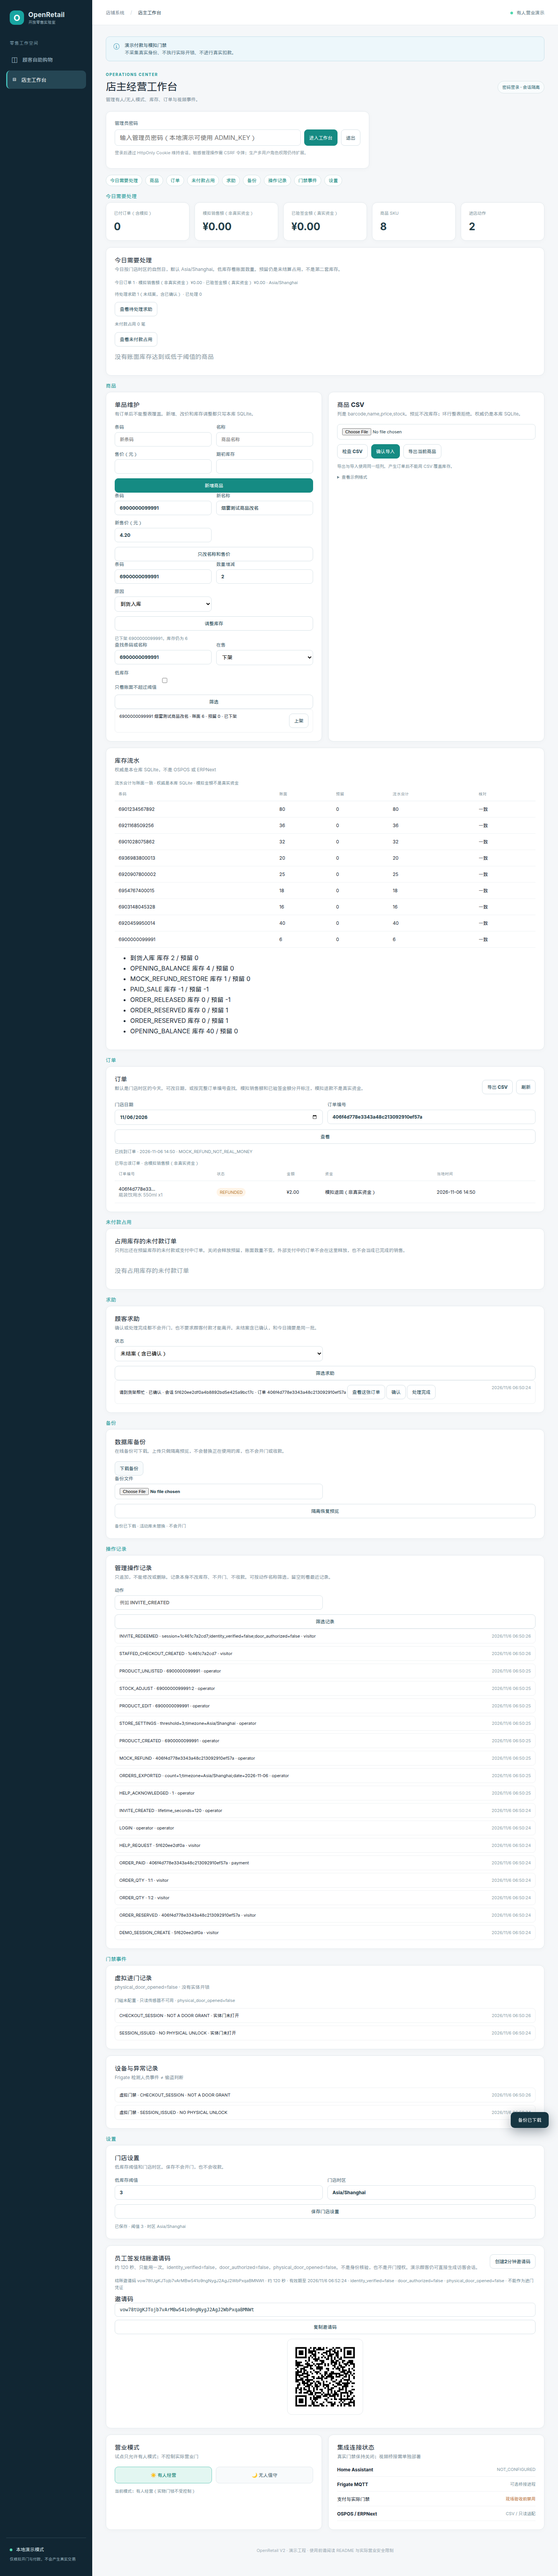
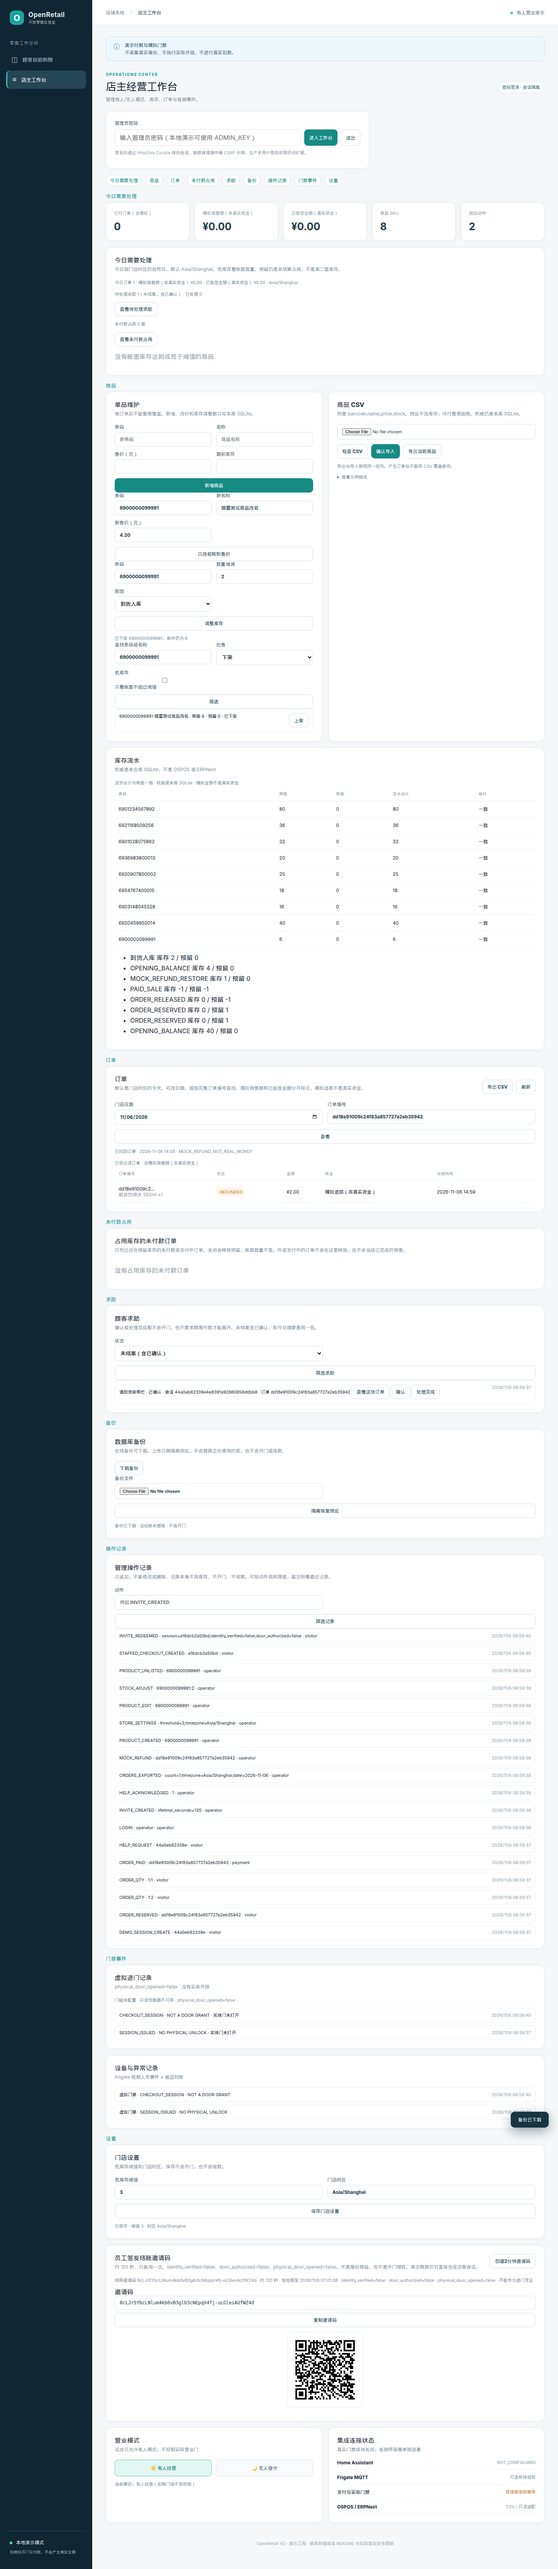
Reject an invalid admin price before creating or renaming a product.
Barcode and name are still checked first. A real positive price is unchanged.

diff --git a/web/app.js b/web/app.js
@@ -133,14 +133,15 @@ function auditQuery(){const action=($('audit-action')&&$('audit-action').value||
 function catalogQuery(){const params=new URLSearchParams();const q=($('catalog-query').value||'').trim();const listing=$('catalog-listing').value||'all';if(q)params.set('q',q);if(listing!=='all')params.set('listing',listing);if($('catalog-low-stock').checked)params.set('low_stock','1');const text=params.toString();return '/api/admin/products'+(text?'?'+text:'')}
 function blankAdminBarcode(raw){const code=String(raw??'').trim();if(code)return code;$('product-status').textContent='请输入商品条码';toast('请输入商品条码');return ''}
 function blankAdminName(raw){const name=String(raw??'').trim();if(name)return name;$('product-status').textContent='请输入商品名称';toast('请输入商品名称');return ''}
+function adminPriceCents(raw){const text=String(raw??'').trim();const yuan=Number(text);const cents=Math.round(yuan*100);if(!text||!Number.isFinite(yuan)||yuan<=0||!Number.isFinite(cents)||cents<1){$('product-status').textContent='请输入有效售价';toast('请输入有效售价');return null}return cents}
 async function adminProduct(barcode){const code=blankAdminBarcode(barcode);if(!code)return null;return api('/api/admin/products/by-barcode/'+encodeURIComponent(code),{admin:true})}
 $('catalog-filter').onsubmit=e=>{e.preventDefault();run(async()=>{await adminRefresh();toast('已按条码或名称筛选，库存未改')})};
 $('jump-holding').onclick=()=>{const section=document.getElementById('admin-holding');if(section)section.scrollIntoView({block:'start'})};
 $('jump-help').onclick=()=>{if($('help-status'))$('help-status').value='attention';const section=document.getElementById('admin-help');if(section)section.scrollIntoView({block:'start'});run(async()=>{await adminRefresh()})};
 $('help-filter').onsubmit=e=>{e.preventDefault();run(async()=>{await adminRefresh()})};
 $('audit-filter').onsubmit=e=>{e.preventDefault();run(async()=>{await adminRefresh()})};
-$('product-form').onsubmit=e=>{e.preventDefault();run(async()=>{const f=new FormData(e.target);const barcode=blankAdminBarcode(f.get('barcode'));if(!barcode)return;const name=blankAdminName(f.get('name'));if(!name)return;const r=await api('/api/admin/products',{admin:true,method:'POST',body:{barcode,name,price_cents:Math.round(Number(f.get('price'))*100),stock:Number(f.get('stock')),active:true}});$('product-status').textContent='已新增 '+r.barcode+'，期初库存 '+r.stock+' 已入账';e.target.reset();await adminRefresh();await loadProducts();toast('商品已新增')})};
-$('edit-form').onsubmit=e=>{e.preventDefault();run(async()=>{const f=new FormData(e.target);const before=await adminProduct(f.get('barcode'));if(!before)return;const name=blankAdminName(f.get('name'));if(!name)return;const r=await api('/api/admin/products/'+before.id,{admin:true,method:'PATCH',body:{name,price_cents:Math.round(Number(f.get('price'))*100)}});if(r.stock!==before.stock||r.stock_changed)throw Error('改价不应改库存');$('product-status').textContent='已改名称和售价，库存仍为 '+r.stock;await loadProducts();toast('名称和售价已更新')})};
+$('product-form').onsubmit=e=>{e.preventDefault();run(async()=>{const f=new FormData(e.target);const barcode=blankAdminBarcode(f.get('barcode'));if(!barcode)return;const name=blankAdminName(f.get('name'));if(!name)return;const priceCents=adminPriceCents(f.get('price'));if(priceCents==null)return;const r=await api('/api/admin/products',{admin:true,method:'POST',body:{barcode,name,price_cents:priceCents,stock:Number(f.get('stock')),active:true}});$('product-status').textContent='已新增 '+r.barcode+'，期初库存 '+r.stock+' 已入账';e.target.reset();await adminRefresh();await loadProducts();toast('商品已新增')})};
+$('edit-form').onsubmit=e=>{e.preventDefault();run(async()=>{const f=new FormData(e.target);const before=await adminProduct(f.get('barcode'));if(!before)return;const name=blankAdminName(f.get('name'));if(!name)return;const priceCents=adminPriceCents(f.get('price'));if(priceCents==null)return;const r=await api('/api/admin/products/'+before.id,{admin:true,method:'PATCH',body:{name,price_cents:priceCents}});if(r.stock!==before.stock||r.stock_changed)throw Error('改价不应改库存');$('product-status').textContent='已改名称和售价，库存仍为 '+r.stock;await loadProducts();toast('名称和售价已更新')})};
 $('adjust-form').onsubmit=e=>{e.preventDefault();run(async()=>{const f=new FormData(e.target);const product=await adminProduct(f.get('barcode'));if(!product)return;const r=await api('/api/admin/products/'+product.id+'/adjust-stock',{admin:true,method:'POST',body:{quantity_delta:Number(f.get('delta')),reason:String(f.get('reason'))}});$('product-status').textContent='库存已调整为 '+r.stock+'，流水已记录';await adminRefresh();await loadProducts();toast('库存已调整')})};
 async function uploadCsv(dry){const file=$('csv-file').files?.[0];if(!file)throw Error('请先选择 CSV 文件');if(!dry&&!confirm('仅允许首次建账导入；已有订单将拒绝覆盖库存。确定继续？'))return;const data=new FormData();data.append('file',file);const r=await api('/api/admin/import-products?dry_run='+String(dry),{admin:true,method:'POST',form:true,body:data});$('csv-status').textContent=dry?'检查通过，共 '+r.count+' 条：'+r.preview.map(x=>x.name).slice(0,4).join('、'):'已导入 '+r.count+' 条商品。注意不会自动同步到 OSPOS。';if(!dry){await loadProducts();await adminRefresh()}toast(dry?'CSV 检查通过':'CSV 已导入')}
 $('csv-preview').onclick=()=>run(()=>uploadCsv(true));$('csv-import').onclick=()=>run(()=>uploadCsv(false));

diff --git a/web/index.html b/web/index.html
@@ -62,8 +62,8 @@
           <h2 class="admin-section-title">商品</h2>
           <div class="admin-grid">
             <article class="surface"><div class="surface-heading"><div><h2>单品维护</h2><p>有订单后不能整表覆盖。新增、改价和库存调整都只写本库 SQLite。</p></div></div>
-              <form id="product-form" class="product-form"><label>条码<input name="barcode" placeholder="新条码" required></label><label>名称<input name="name" placeholder="商品名称" required></label><label>售价（元）<input name="price" type="number" min="0.01" step="0.01" required></label><label>期初库存<input name="stock" type="number" min="0" step="1" required></label><button class="btn primary" type="submit">新增商品</button></form>
-              <form id="edit-form" class="product-form"><label>条码<input name="barcode" placeholder="已有条码" required></label><label>新名称<input name="name" required></label><label>新售价（元）<input name="price" type="number" min="0.01" step="0.01" required></label><button class="btn secondary" type="submit">只改名称和售价</button></form>
+              <form id="product-form" class="product-form"><label>条码<input name="barcode" placeholder="新条码" required></label><label>名称<input name="name" placeholder="商品名称" required></label><label>售价（元）<input name="price" type="number" step="0.01"></label><label>期初库存<input name="stock" type="number" min="0" step="1" required></label><button class="btn primary" type="submit">新增商品</button></form>
+              <form id="edit-form" class="product-form"><label>条码<input name="barcode" placeholder="已有条码" required></label><label>新名称<input name="name" required></label><label>新售价（元）<input name="price" type="number" step="0.01"></label><button class="btn secondary" type="submit">只改名称和售价</button></form>
               <form id="adjust-form" class="product-form"><label>条码<input name="barcode" placeholder="已有条码" required></label><label>数量增减<input name="delta" type="number" step="1" required></label><label>原因<select name="reason"><option>盘点修正</option><option>商品报损</option><option>到货入库</option></select></label><button class="btn secondary" type="submit">调整库存</button></form>
               <div class="inline-note" id="product-status">重复条码会被拒绝。改价和上下架都不会改库存。</div>
               <form id="catalog-filter" class="product-form"><label>查找条码或名称<input id="catalog-query" name="q" placeholder="输入一部分即可" autocomplete="off"></label><label>在售<select id="catalog-listing" name="listing"><option value="all">全部</option><option value="listed">上架</option><option value="unlisted">下架</option></select></label><label>低库存<input id="catalog-low-stock" type="checkbox">只看账面不超过阈值</label><button class="btn secondary" type="submit">筛选</button></form>

diff --git a/tests/test_blank_admin_price.py b/tests/test_blank_admin_price.py
@@ -1,0 +1,63 @@
+"""An invalid admin price asks for a real one and does not create or rename a product."""
+from conftest import visitor
+
+
+def test_invalid_admin_price_does_not_create_or_rename(client, admin_header):
+    guest=visitor(client)
+    water=next(item for item in client.get('/api/products').json() if item['barcode']=='6901234567892')
+    with client.app.state.db.connect() as conn:
+        stock=conn.execute('SELECT stock,reserved_stock,name,price_cents FROM products WHERE id=?',(water['id'],)).fetchone()
+        products=conn.execute('SELECT COUNT(*) n FROM products').fetchone()['n']
+        opening=conn.execute("SELECT COUNT(*) n FROM stock_movements WHERE reason='OPENING_BALANCE'").fetchone()['n']
+        moves=conn.execute('SELECT COUNT(*) n FROM stock_movements').fetchone()['n']
+        created=conn.execute("SELECT COUNT(*) n FROM audit_events WHERE action='PRODUCT_CREATED'").fetchone()['n']
+        edited_audits=conn.execute("SELECT COUNT(*) n FROM audit_events WHERE action='PRODUCT_EDIT'").fetchone()['n']
+        doors=conn.execute('SELECT COUNT(*) n FROM door_events').fetchone()['n']
+        payments=conn.execute('SELECT COUNT(*) n FROM payments').fetchone()['n']
+    barcode_first=client.post('/api/admin/products',headers=admin_header,json={
+        'barcode':'   ','name':'   ','price_cents':0,'stock':1,'active':True})
+    assert barcode_first.status_code==422 and barcode_first.json()['detail']=='请输入商品条码'
+    name_first=client.post('/api/admin/products',headers=admin_header,json={
+        'barcode':'6900000077222','name':'  ','price_cents':0,'stock':1,'active':True})
+    assert name_first.status_code==422 and name_first.json()['detail']=='请输入商品名称'
+    for raw in (0, -5, None, '', 'abc', ' -1 ', 1.5):
+        denied=client.post('/api/admin/products',headers=admin_header,json={
+            'barcode':'6900000077222','name':'不应写入','price_cents':raw,'stock':2,'active':True})
+        assert denied.status_code==422 and denied.json()['detail']=='请输入有效售价'
+        rename=client.patch('/api/admin/products/'+str(water['id']),headers=admin_header,
+                            json={'name':'不应改名','price_cents':raw})
+        assert rename.status_code==422 and rename.json()['detail']=='请输入有效售价'
+    too_high=client.post('/api/admin/products',headers=admin_header,json={
+        'barcode':'6900000077222','name':'不应写入','price_cents':100_000_001,'stock':1,'active':True})
+    assert too_high.status_code==422 and too_high.json()['detail']!='请输入有效售价'
+    with client.app.state.db.connect() as conn:
+        now=conn.execute('SELECT stock,reserved_stock,name,price_cents FROM products WHERE id=?',(water['id'],)).fetchone()
+        assert tuple(now)==tuple(stock)
+        assert conn.execute('SELECT COUNT(*) n FROM products').fetchone()['n']==products
+        assert conn.execute("SELECT COUNT(*) n FROM stock_movements WHERE reason='OPENING_BALANCE'").fetchone()['n']==opening
+        assert conn.execute('SELECT COUNT(*) n FROM stock_movements').fetchone()['n']==moves
+        assert conn.execute("SELECT COUNT(*) n FROM audit_events WHERE action='PRODUCT_CREATED'").fetchone()['n']==created
+        assert conn.execute("SELECT COUNT(*) n FROM audit_events WHERE action='PRODUCT_EDIT'").fetchone()['n']==edited_audits
+        assert conn.execute('SELECT COUNT(*) n FROM door_events').fetchone()['n']==doors
+        assert conn.execute('SELECT COUNT(*) n FROM payments').fetchone()['n']==payments
+    made=client.post('/api/admin/products',headers=admin_header,json={
+        'barcode':'6900000077222','name':'有效售价商品','price_cents':200,'stock':2,'active':True})
+    assert made.status_code==200 and made.json()['price_cents']==200 and made.json()['stock']==2
+    duplicate=client.post('/api/admin/products',headers=admin_header,json={
+        'barcode':'6900000077222','name':'重复','price_cents':200,'stock':1,'active':True})
+    assert duplicate.status_code==409
+    assert duplicate.json()['detail']=='条码已存在。请只改名称售价，或做单品库存调整；不要整表覆盖。'
+    edited=client.patch('/api/admin/products/'+str(made.json()['id']),headers=admin_header,
+                        json={'name':'改过的名称','price_cents':'260'})
+    assert edited.status_code==200 and edited.json()['name']=='改过的名称' and edited.json()['price_cents']==260
+    assert edited.json()['stock']==2 and edited.json()['stock_changed'] is False
+    shop=client.get('/api/products/by-barcode/%20')
+    assert shop.status_code==422 and shop.json()['detail']=='请输入商品条码'
+    store=client.get('/api/public/store').json()
+    assert store['identity_verified'] is False and store['door_authorized'] is False
+    assert store['physical_door_opened'] is False
+    assert client.get('/api/admin/inventory-ledger',headers=admin_header).json()['balanced'] is True
+    script=__import__('pathlib').Path('web/app.js').read_text(encoding='utf-8')
+    assert 'adminPriceCents' in script and "textContent='请输入有效售价'" in script
+    assert "blankAdminName(f.get('name'));if(!name)return;const priceCents=adminPriceCents" in script
+    assert client.post('/api/orders/'+'x'*32+'/refund',headers=guest).status_code==404

diff --git a/openretail/main.py b/openretail/main.py
@@ -21,6 +21,7 @@ import sqlite3
 import threading
 import time
 from pathlib import Path
+from typing import Any
 from uuid import uuid4
 
 from fastapi import FastAPI,Header,HTTPException,Depends,UploadFile,File,Query,Request,Response
@@ -57,6 +58,21 @@ def store_zone(c):
     name=row['value'] if row and row['value'] else 'Asia/Shanghai'
     try:return name,ZoneInfo(name)
     except Exception:abort(500,'门店时区配置无效')
+
+def require_price_cents(value):
+    """Yuan is entered on the page; this stores integer cents. Empty, zero, and junk are not a price."""
+    if isinstance(value,str):
+        text=value.strip()
+        if not text or not text.lstrip('+').isdigit():
+            abort(422,'请输入有效售价')
+        value=int(text)
+    elif isinstance(value,float):
+        if not value.is_integer():abort(422,'请输入有效售价')
+        value=int(value)
+    if isinstance(value,bool) or not isinstance(value,int) or value<1:
+        abort(422,'请输入有效售价')
+    if value>100_000_000:abort(422,'售价超出上限')
+    return value
 
 def contains_like(text:str)->str:
     # Literal substring. % and _ in a barcode or name stay characters, not wildcards.
@@ -151,12 +167,12 @@ class LineQuantity(BaseModel):
 class ProductInput(BaseModel):
     barcode:str=Field(min_length=0,max_length=64)
     name:str=Field(min_length=0,max_length=120)
-    price_cents:int=Field(ge=1,le=100_000_000)
+    price_cents:Any=None
     stock:int=Field(ge=0,le=1_000_000)
     active:bool=True
 class ProductEdit(BaseModel):
     name:str=Field(min_length=0,max_length=120)
-    price_cents:int=Field(ge=1,le=100_000_000)
+    price_cents:Any=None
 class ListingInput(BaseModel):
     active:bool
 
@@ -1122,12 +1138,13 @@ def create_app(settings:Settings|None=None)->FastAPI:
         if not barcode:abort(422,'请输入商品条码')
         name=payload.name.strip()
         if not name:abort(422,'请输入商品名称')
+        price_cents=require_price_cents(payload.price_cents)
         with db.tx() as c:
             db.expire(c,now())
             if c.execute('SELECT id FROM products WHERE barcode=?',(barcode,)).fetchone():
                 abort(409,'条码已存在。请只改名称售价，或做单品库存调整；不要整表覆盖。')
             cur=c.execute('INSERT INTO products(barcode,name,price_cents,stock,active) VALUES(?,?,?,?,?)',
-                          (barcode,name,payload.price_cents,payload.stock,int(payload.active)))
+                          (barcode,name,price_cents,payload.stock,int(payload.active)))
             db.movement(c,cur.lastrowid,payload.stock,0,'OPENING_BALANCE',barcode)
             db.audit(c,actor,'PRODUCT_CREATED',barcode)
             row=c.execute('SELECT id,barcode,name,price_cents,stock,reserved_stock FROM products WHERE id=?',(cur.lastrowid,)).fetchone()
@@ -1138,16 +1155,17 @@ def create_app(settings:Settings|None=None)->FastAPI:
         """Name and price only. Stock and reservations stay untouched."""
         name=payload.name.strip()
         if not name:abort(422,'请输入商品名称')
+        price_cents=require_price_cents(payload.price_cents)
         with db.tx() as c:
             current=c.execute('SELECT id,barcode,stock,reserved_stock FROM products WHERE id=?',(product_id,)).fetchone()
             if not current:abort(404,'商品不存在')
             c.execute('UPDATE products SET name=?,price_cents=? WHERE id=?',
-                      (name,payload.price_cents,product_id))
+                      (name,price_cents,product_id))
             db.audit(c,actor,'PRODUCT_EDIT',current['barcode'])
             after=c.execute('SELECT stock,reserved_stock FROM products WHERE id=?',(product_id,)).fetchone()
             if after['stock']!=current['stock'] or after['reserved_stock']!=current['reserved_stock']:
                 raise RuntimeError('name/price edit changed stock')
-        return {'id':product_id,'barcode':current['barcode'],'name':name,'price_cents':payload.price_cents,
+        return {'id':product_id,'barcode':current['barcode'],'name':name,'price_cents':price_cents,
                 'stock':current['stock'],'reserved_stock':current['reserved_stock'],'stock_changed':False}
 
     @app.post('/api/admin/products/{product_id}/listing')

diff --git a/scripts/ui_bridge_smoke.py b/scripts/ui_bridge_smoke.py
@@ -169,6 +169,21 @@ with TestClient(create_app(cfg)) as backend,sync_playwright() as pw:
   same=conn.execute("SELECT name,price_cents FROM products WHERE barcode='6901234567892'").fetchone()
   assert same['name']==water_name['name'] and same['price_cents']==water_name['price_cents']
  p.locator('#product-form input[name="barcode"]').fill('6900000099991')
+ p.locator('#product-form input[name="name"]').fill('不应因售价新增')
+ p.locator('#product-form input[name="price"]').evaluate("el => { el.value='0'; }")
+ p.locator('#product-form input[name="stock"]').fill('4')
+ p.locator('#product-form button[type="submit"]').click()
+ p.wait_for_function("document.querySelector('#product-status').textContent==='请输入有效售价' && document.querySelector('#toast').textContent.includes('请输入有效售价')")
+ p.locator('#edit-form input[name="barcode"]').fill('6901234567892')
+ p.locator('#edit-form input[name="name"]').fill('瓶装饮用水 550ml')
+ p.locator('#edit-form input[name="price"]').evaluate("el => { el.value=''; }")
+ p.locator('#edit-form button[type="submit"]').click()
+ p.wait_for_function("document.querySelector('#product-status').textContent==='请输入有效售价'")
+ with backend.app.state.db.connect() as conn:
+  assert conn.execute('SELECT COUNT(*) n FROM products').fetchone()['n']==products_before
+  same=conn.execute("SELECT name,price_cents FROM products WHERE barcode='6901234567892'").fetchone()
+  assert same['name']==water_name['name'] and same['price_cents']==water_name['price_cents']
+ p.locator('#product-form input[name="barcode"]').fill('6900000099991')
  p.locator('#product-form input[name="name"]').fill('烟雾测试商品')
  p.locator('#product-form input[name="price"]').fill('3.50')
  p.locator('#product-form input[name="stock"]').fill('4')

diff --git a/docs/PROJECT_STATUS.md b/docs/PROJECT_STATUS.md
@@ -4,6 +4,18 @@
 
 完全无人值守经营仍是 **NOT_APPROVED**。示例配置里的真实支付和实体开锁都是关闭的。
 
+## 本增量（管理端无效售价）
+
+已在代码和测试里做到，并在本机复跑：
+
+- 新增商品或只改名称和售价时，条码和名称都有效，但售价是空的、零、负数或无法换算，页面和接口都显示「请输入有效售价」（HTTP 422）。不会新增商品，不写 `OPENING_BALANCE` 或 `PRODUCT_CREATED`，也不改已有名称、售价或库存。
+- 条码为空仍先显示「请输入商品条码」。条码有效而名称为空仍显示「请输入商品名称」。2.00 元仍是 200 分，可以新增和修改。重复条码仍返回原来的「条码已存在」句子。超过 1 亿分仍拒绝，句子是「售价超出上限」，不是这句新提示。
+- 演示「生成访客会话」、邀请码和模拟退款没有改。这条路径不开门，不调用支付机构。路线图里关于桥接脚本、管理端模拟退款和 Frigate `update` 的更正没有改回去。
+
+`/tmp/openretail-venv/bin/python -m pytest -q`（工作目录 `/workspace`，Python 3.12.3）：**90 passed，1 warning，10.80s，退出码 0**。警告仍是 Starlette 的 `httpx` TestClient 弃用提示。90 = 上一轮 89 + 本增量 1。
+
+`scripts/ui_bridge_smoke.py` 在去掉密钥环境变量后退出码 0。顾客没有领取邀请码。¥2.00 模拟支付仍显示「模拟支付成功 · 非真实资金 · 已扣库存 · ¥2.00」。新增表单售价填 0、修改表单售价留空，都显示「请输入有效售价」，没有新增商品，也没有改掉瓶装饮用水的名称和售价。390 宽 `scrollWidth` 390，1440 宽 `scrollWidth` 1440，`pageerror` 为空。这仍是 Chrome 到 TestClient 的桥，不是真机，也不是真实收款。这条 PR 仍未合并。
+
 ## 本增量（路线图与当前分支对齐）
 
 只改了 `docs/TECH_ROADMAP.md` 里三处过时说法，运行行为没有变：

diff --git a/docs/API_INVENTORY.md b/docs/API_INVENTORY.md
@@ -8,7 +8,7 @@
 
 ### OpenRetail HTTP API（本进程）
 
-- 用途：商品、库存预留、订单、模拟支付、管理登录、健康检查。实现在 `openretail/main.py`。
+- 用途：商品、库存预留、订单、模拟支付、管理登录、健康检查。实现在 `openretail/main.py`。管理端新增和改价按条码、名称、售价这个顺序检查：空条码是「请输入商品条码」，空名称是「请输入商品名称」，空、零、负数或无法换算的售价是「请输入有效售价」（HTTP 422）。超过 1 亿分的售价仍拒绝，句子是「售价超出上限」。
 - 官方文档：无外部文档。行为以源码和 `tests/` 为准。demo 模式才暴露 `/docs`。
 - 是否真正可用：本地 TestClient 可用。没有对外发布的服务。
 - 免费额度/限制：单机 SQLite，一个写入进程。不是多店接口。
